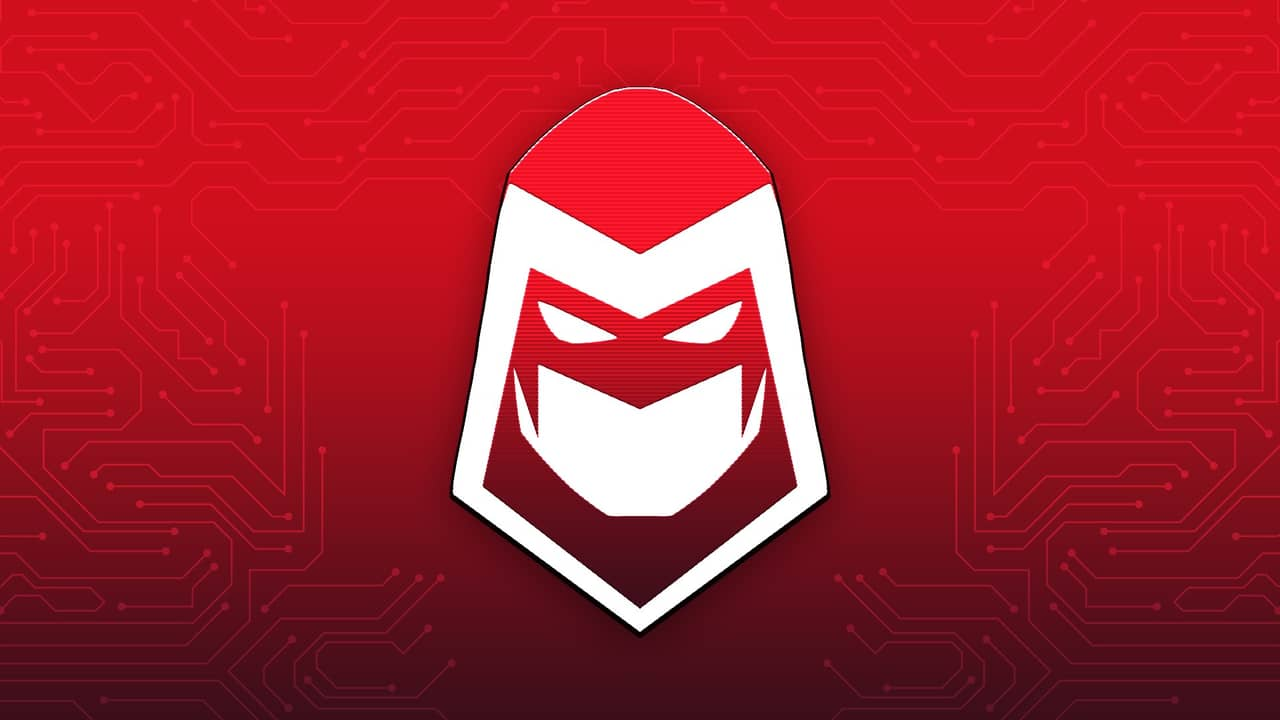
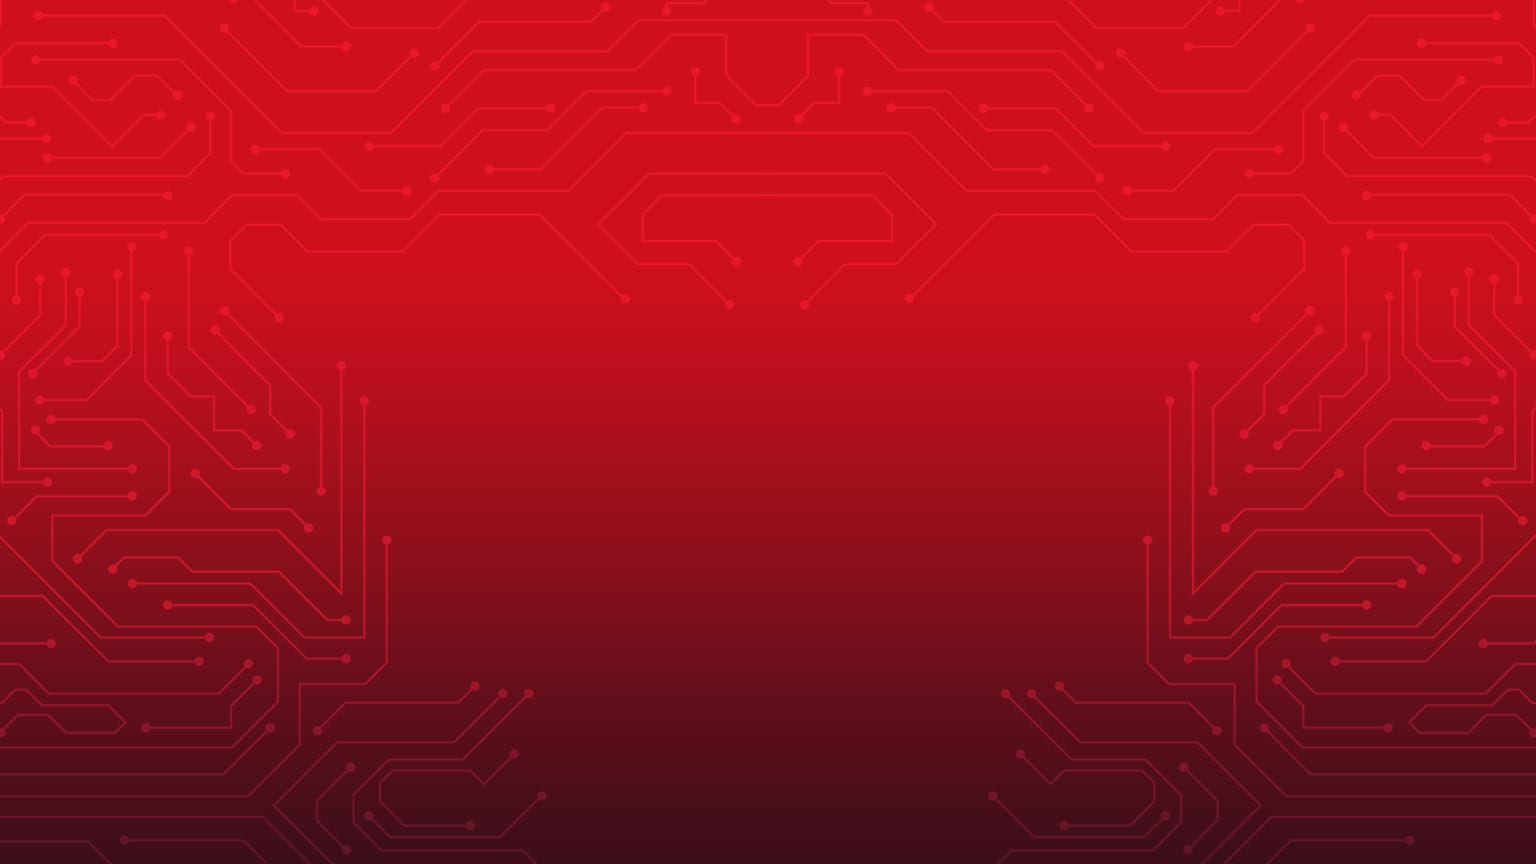
Emails: the new red circuit picture as the background (no mask in the middle), across the top of the email at full width and running into its dark red below; wider on phones so the circuits still show

Changed region(s): [[0.3438, 0.0917, 0.6562, 0.8861]]

diff --git a/api/_users.js b/api/_users.js
@@ -128,7 +128,7 @@ const assetHost = () => {
 }
 const pictureUrl = (path) => (/^https?:\/\//.test(path) ? path : `${assetHost()}${path.startsWith('/') ? '' : '/'}${path}`)
 
-/* Every email in the site's comic style, on the red circuit picture: the name on black (the second
+/* Every email in the site's comic style, on the red circuit picture (across the top, running into its dark red): the name on black (the second
    word in red), a dark panel framed in ink with a small tag, a big italic heading, the words, a discount
    code in a dashed box and a picture when there are any, and a red inked button with a hard
    shadow; under it the link written out, and a quiet footer. Built from tables with the styles
@@ -141,7 +141,7 @@ const pictureUrl = (path) => (/^https?:\/\//.test(path) ? path : `${assetHost()}
 const DISPLAY = "'Arial Black', 'Helvetica Neue', Impact, Arial, sans-serif"
 const BODY = "Arial, 'Helvetica Neue', Helvetica, sans-serif"
 const MONO = "'Courier New', Consolas, Menlo, monospace"
-const C = { page: '#6d0d14', ink: '#0b0b0c', panel: '#17171a', red: '#d8232f', bright: '#ff2a36', text: '#d9d9d6', soft: '#8a8a8f', foot: '#b9b9be', gold: '#ffd34d', line: '#3a3a40' }
+const C = { page: '#3e0e1a', ink: '#0b0b0c', panel: '#17171a', red: '#d8232f', bright: '#ff2a36', text: '#d9d9d6', soft: '#8a8a8f', foot: '#b9b9be', gold: '#ffd34d', line: '#3a3a40' }
 const paint = (c) => `background-color:${c};background-image:linear-gradient(${c},${c});`
 // light words that must stay light in Gmail's dark mode
 const keep = (html, tag = 'div') => `<${tag} class="gmail-screen"><${tag} class="gmail-dif">${html}</${tag}></${tag}>`
@@ -181,9 +181,10 @@ export const emailHtml = ({ subject, kicker, title, lines = [], button, picture,
   u + .body .gmail-screen { background:#000; mix-blend-mode:screen; display:inline; }
   u + .body .gmail-dif { background:#000; mix-blend-mode:difference; display:inline; }
   u + .body div.gmail-screen, u + .body div.gmail-dif { display:block; }
+  @media (max-width:600px) { .email-back { background-size:240% auto !important; } }
 </style></head>
 <body class="body" style="margin:0;padding:0;${paint(C.page)}">
-<table role="presentation" width="100%" cellpadding="0" cellspacing="0" border="0" background="${esc(back)}" style="background-color:${C.page};background-image:url('${esc(back)}');background-size:cover;background-position:center top;background-repeat:no-repeat;"><tr><td align="center" style="padding:28px 12px 36px;">
+<table role="presentation" width="100%" cellpadding="0" cellspacing="0" border="0" background="${esc(back)}" style="background-color:${C.page};background-image:url('${esc(back)}');background-size:100% auto;background-position:center top;background-repeat:no-repeat;" class="email-back"><tr><td align="center" style="padding:28px 12px 36px;">
 <table role="presentation" width="100%" cellpadding="0" cellspacing="0" border="0" style="max-width:560px;">
   <tr><td style="${paint(C.ink)}border:3px solid ${C.ink};padding:16px 22px 15px;font-family:${DISPLAY};font-size:20px;font-weight:900;font-style:italic;letter-spacing:0.5px;text-transform:uppercase;color:#ffffff;line-height:1;"><span style="color:#ffffff;">${keep(esc(first), 'span')}</span>${second ? ` <span style="color:${C.bright};">${esc(second)}</span>` : ''}</td></tr>
   <tr><td style="${paint(C.panel)}border:3px solid ${C.ink};border-top:0;padding:30px 26px 30px;">
